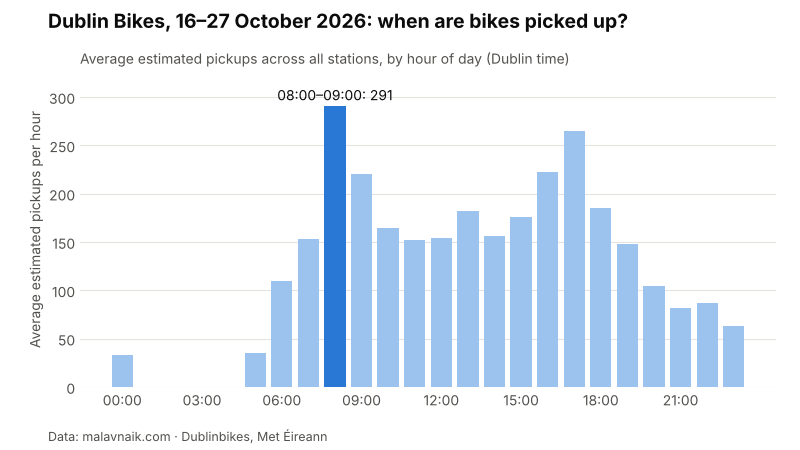
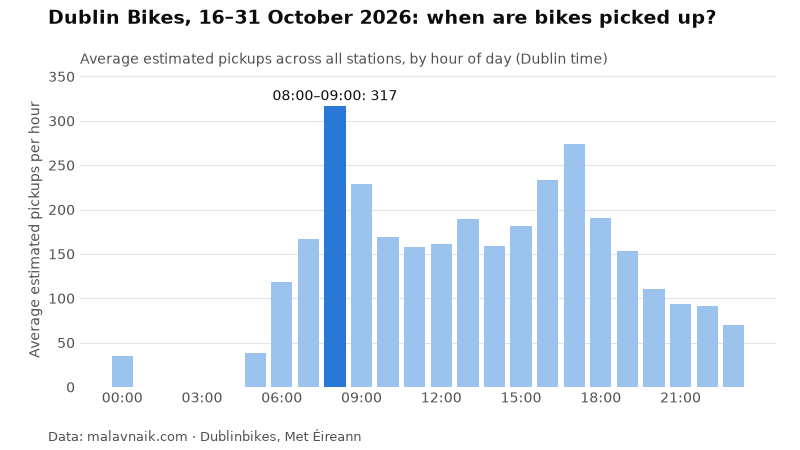
Dublin Bikes in numbers: 2026-10 draft

diff --git a/_drafts/dublin-bikes-in-numbers-2026-10.md b/_drafts/dublin-bikes-in-numbers-2026-10.md
@@ -1,65 +1,65 @@
 ---
-title: "Dublin Bikes in numbers: 16–27 October 2026"
+title: "Dublin Bikes in numbers: 16–31 October 2026"
 slug: dublin-bikes-in-numbers-october-2026
-description: "When and where Dubliners picked up Dublinbikes during 16–27 October 2026, and what rain did to it, from my open bikes and weather data."
+description: "When and where Dubliners picked up Dublinbikes during 16–31 October 2026, and what rain did to it, from my open bikes and weather data."
 tags: [dublin, dublinbikes, opendata, dataengineering]
 image: "/images/bikes-report/2026-10.png"
-image_alt: "Bar chart of average estimated Dublinbikes pickups per hour by hour of day, 16–27 October 2026. The busiest hour is 08:00–09:00 with 291 pickups on average."
+image_alt: "Bar chart of average estimated Dublinbikes pickups per hour by hour of day, 16–31 October 2026. The busiest hour is 08:00–09:00 with 317 pickups on average."
 ---
 
-A monthly look at Dublinbikes, built from my [bikes and weather pipeline](/projects/dublin-bikes-pipeline/). This is the first edition. My pipeline started collecting on 16 October, so it covers **16–27 October 2026**.
+A monthly look at Dublinbikes, built from my [bikes and weather pipeline](/projects/dublin-bikes-pipeline/). This is the first edition. My pipeline started collecting on 16 October, so it covers **16–31 October 2026**.
 
 **How I count pickups:** every 15 minutes I record how many bikes each station has, and whenever a station has fewer bikes than 15 minutes earlier, I count the difference as pickups, so the numbers are estimates (bikes moved by the rebalancing vans count too).
 
 ## The headline
 
-About **34,327 estimated pickups** across 113 stations, or roughly 3,008 a day.
+About **48,783 estimated pickups** across 113 stations, or roughly 3,142 a day.
 
 ## The busiest hour
 
-![Bar chart of average estimated Dublinbikes pickups per hour by hour of day, 16–27 October 2026. The busiest hour is 08:00–09:00 with 291 pickups on average.](/images/bikes-report/2026-10.png){: width="800" height="450"}
+![Bar chart of average estimated Dublinbikes pickups per hour by hour of day, 16–31 October 2026. The busiest hour is 08:00–09:00 with 317 pickups on average.](/images/bikes-report/2026-10.png){: width="800" height="450"}
 
-The busiest hour was **08:00–09:00**, with 291 estimated pickups on average across all stations.
+The busiest hour was **08:00–09:00**, with 317 estimated pickups on average across all stations.
 
 ## Busiest and quietest stations
 
 Most estimated pickups:
 
-1. Charlemont Place: 827
-2. Grand Canal Dock: 736
-3. Fownes Street Upper: 616
-4. Princes Street / O'Connell Street: 615
-5. Exchequer Street: 563
+1. Charlemont Place: 1,180
+2. : 1,033
+3. Princes Street / O'Connell Street: 888
+4. Fownes Street Upper: 873
+5. Exchequer Street: 780
 
 Fewest:
 
-1. Grangegorman Lower (Central): 57
-2. Merrion Square South: 85
-3. Kilmainham Lane: 106
-4. Fitzwilliam Square East: 107
-5. Hardwicke Place: 108
+1. Grangegorman Lower (Central): 72
+2. Hardwicke Place: 141
+3. Merrion Square South: 143
+4. : 145
+5. Kilmainham Lane: 150
 
 ## Where to find a bike
 
 Average share of docks holding a bike. Emptiest stations:
 
-1. Fitzwilliam Square East: 4.8%
-2. Merrion Square South: 6.0%
-3. Mountjoy Square East: 7.7%
-4. Hardwicke Place: 7.8%
-5. Hatch Street: 7.8%
+1. : 4.5%
+2. Hardwicke Place: 6.6%
+3. Merrion Square South: 7.5%
+4. Hatch Street: 8.5%
+5. Eccles Street East: 9.8%
 
 Fullest stations:
 
-1. Talbot Street: 81.2%
-2. Dame Street: 80.0%
-3. Buckingham Street Lower: 79.4%
-4. Smithfield North: 74.5%
-5. Barrow Street: 73.4%
+1. Dame Street: 81.2%
+2. Smithfield North: 77.7%
+3. Talbot Street: 74.7%
+4. Barrow Street: 74.2%
+5. Buckingham Street Lower: 72.9%
 
 ## What rain did
 
-It rained (at least 0.1 mm at Dublin Airport) in 55 hours. In those hours there were **44.2% fewer estimated pickups** than in dry hours at the same time of day. Without adjusting for the time of day, rainy hours averaged 74 pickups and dry hours 158. Hours with only a trace of rain are left out. It's a small sample, so treat this as a first look.
+It rained (at least 0.1 mm at Dublin Airport) in 61 hours. In those hours there were **33.7% fewer estimated pickups** than in dry hours at the same time of day. Without adjusting for the time of day, rainy hours averaged 94 pickups and dry hours 162. Hours with only a trace of rain are left out. It's a small sample, so treat this as a first look.
 
 Month-on-month comparisons start with the November edition.
 
@@ -70,5 +70,5 @@ You're welcome to reuse the chart in articles, slides or posts, as long as you l
 ### Embed this chart
 
 ```html
-<a href="https://malavnaik.com/blog/dublin-bikes-in-numbers-october-2026/"><img src="https://malavnaik.com/images/bikes-report/2026-10.png" alt="Bar chart of average estimated Dublinbikes pickups per hour by hour of day, 16–27 October 2026. The busiest hour is 08:00–09:00 with 291 pickups on average." width="800" height="450"></a>
+<a href="https://malavnaik.com/blog/dublin-bikes-in-numbers-october-2026/"><img src="https://malavnaik.com/images/bikes-report/2026-10.png" alt="Bar chart of average estimated Dublinbikes pickups per hour by hour of day, 16–31 October 2026. The busiest hour is 08:00–09:00 with 317 pickups on average." width="800" height="450"></a>
 ```
